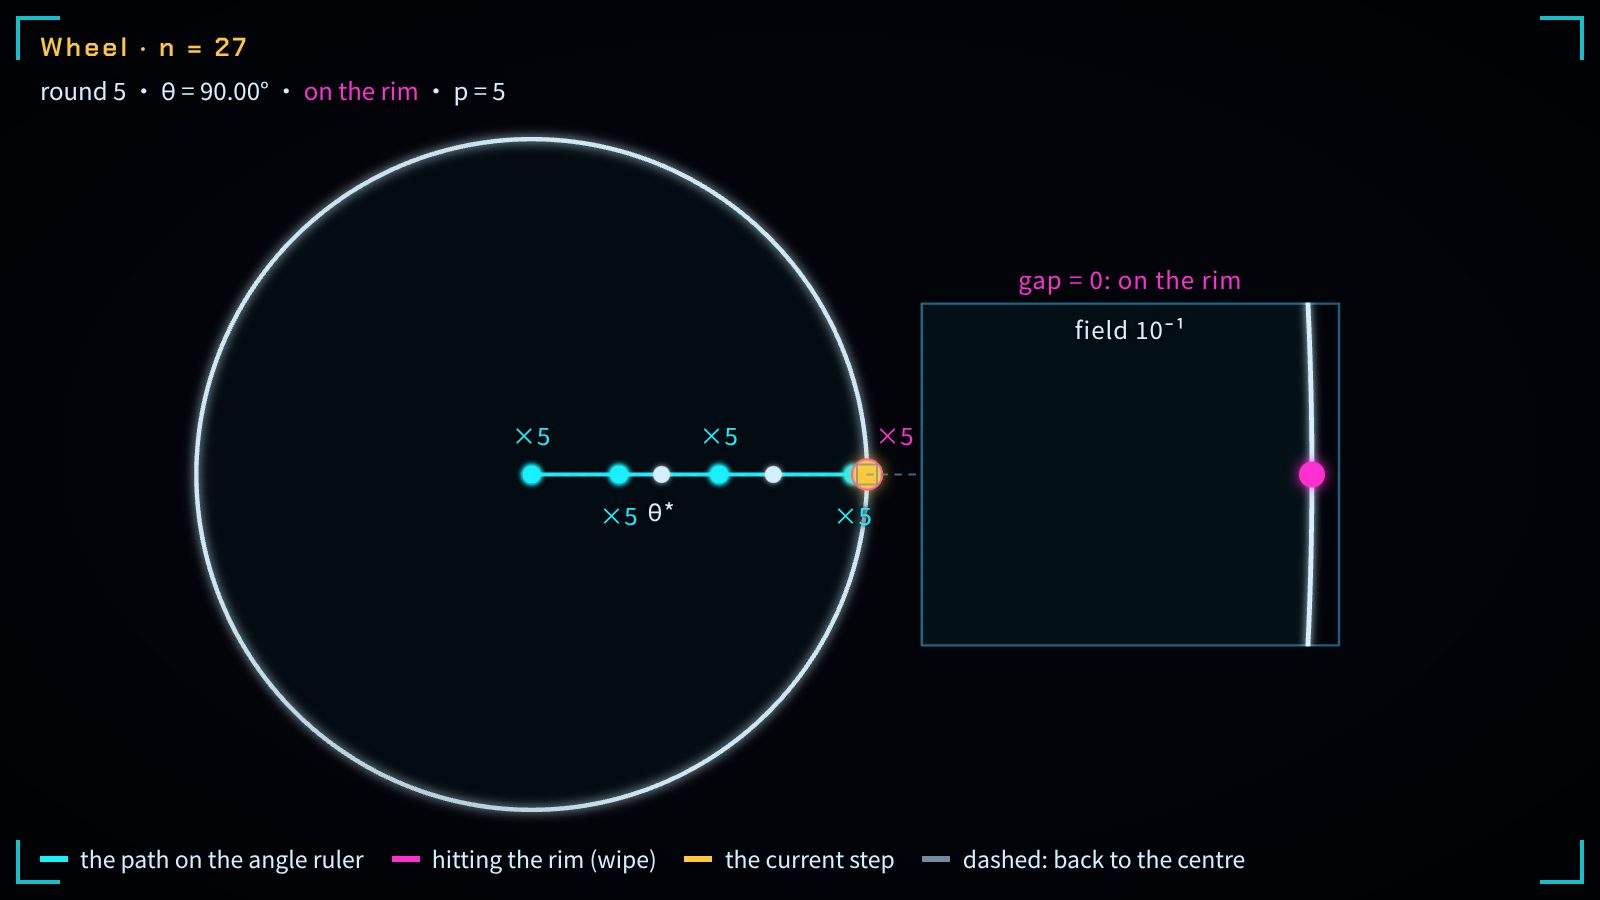
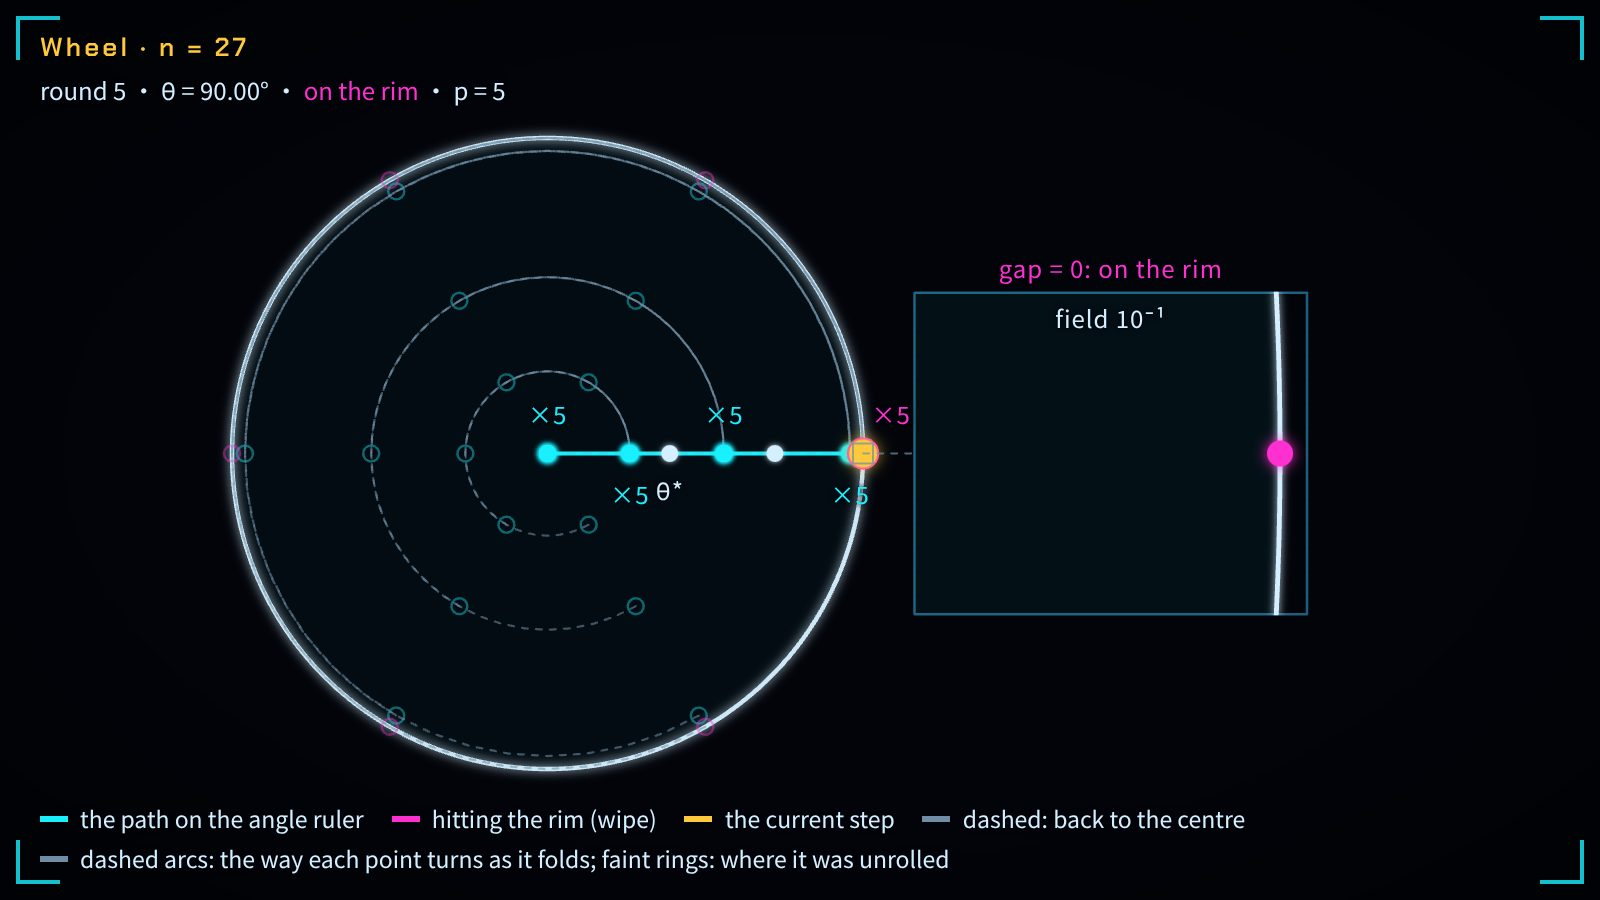
forgetting-rebirth-attractor: merge horizon_gap into staircase; draw the fold as a motion with a fold slider

diff --git a/books/quantum-geometry/viz/forgetting-rebirth-attractor/main.js b/books/quantum-geometry/viz/forgetting-rebirth-attractor/main.js
@@ -236,6 +236,20 @@
     const nNow = S.n, nInt = Math.min(Math.floor(nNow + 1e-9), W.N - 1);
     // spokes of the wheel
     for (let j = 0; j <= ROUNDS; j++) { const a = spokeAngle(j); g.line([[0, 0], [Math.cos(a), Math.sin(a)]], P.dim, { width: TH, alpha: j === 0 ? 0.55 : 0.35, dash: j === 0 ? [] : [3, 5] }); }
+    // the fold as a motion: each visited state of a later round turns along its own circle toward the first spoke;
+    // the grey arc is the way it has turned, the faint ring where it started (unrolled)
+    const trails = [];
+    if (S.fold > 1e-6) {
+      for (let n = 0; n <= nInt; n++) {
+        const j = W.round[n]; if (j === 0) continue;
+        const r = W.light[n] ? 1 : morphR(kleinOfTheta(W.th[n]).r, S.mu); if (r < 0.02) continue;
+        const a0 = j * (2 * Math.PI / (ROUNDS + 1)), a1 = spokeAngle(j), arc = [];
+        for (let i = 0; i <= 40; i++) { const a = a0 + (a1 - a0) * i / 40; arc.push([r * Math.cos(a), r * Math.sin(a)]); }
+        g.line(arc, P.dim, { width: 1.1 * TH, alpha: 0.55, dash: [3, 4] });
+        g.dot(r * Math.cos(a0), r * Math.sin(a0), W.light[n] ? P.magenta : P.cyan, 4 * TH, { ring: true, width: 1.2 * TH, alpha: 0.4 });
+        trails.push({ n, r, from: a0, to: a1 });
+      }
+    }
     // the path walked so far
     for (let n = 0; n < nInt; n++) {
       const a = statePoint(n), b = statePoint(n + 1);
@@ -279,7 +293,7 @@
         }
       }
     }
-    return { pos, gapNow, mag, mult: [...mult.entries()] };
+    return { pos, gapNow, mag, mult: [...mult.entries()], trails };
   }
 
   /* ---------- scene: the fractional map ---------- */
@@ -456,7 +470,8 @@
     $('roNote').textContent = note; $('roAside').textContent = aside;
     $('pillScene').querySelector('strong').textContent = { stair: L('阶梯', 'STAIRCASE'), samsara: L('轮回', 'WHEEL'), cayley: L('分式', 'FRACTIONAL') }[sc];
     $('pillKeyName').textContent = pill[0]; $('pillKey').querySelector('strong').textContent = pill[1];
-    $('legend').innerHTML = LEGEND[sc].map(([cl, zh, en]) => `<span><i class="sw ${cl}"></i>${L(zh, en)}</span>`).join('');
+    const legend = sc === 'samsara' && S.fold > 1e-6 ? LEGEND.samsara.concat([['dm', '虚线弧：折叠时转过的路；淡圈：展开时的位置', 'dashed arcs: the way each point turns as it folds; faint rings: where it was unrolled']]) : LEGEND[sc];
+    $('legend').innerHTML = legend.map(([cl, zh, en]) => `<span><i class="sw ${cl}"></i>${L(zh, en)}</span>`).join('');
   }
 
   const paint = kit.painter(() => { drawText(); drawStage(); drawPlot(); }, [$('stage'), $('plot')]);
@@ -497,16 +512,18 @@
     morphTween = kit.tween(1600, (e) => { S.mu = from + (to - from) * e; paint(); }, () => { morphTween = null; S.mu = to; paint(); if (done) done(); });
   }
   function setFold(f, animate, done) {
-    foldChips.set(String(f), true);
+    foldChips.set(f === 0 || f === 1 ? String(f) : null, true);
     const from = S.fold;
     if (foldTween) foldTween.cancel();
-    if (!animate) { S.fold = f; foldTween = null; paint(); if (done) done(); return; }
-    foldTween = kit.tween(1600, (e) => { S.fold = from + (f - from) * e; paint(); }, () => { foldTween = null; S.fold = f; paint(); if (done) done(); });
+    const show = (v) => { S.fold = v; fFold.set(Math.round(v * 100) / 100); paint(); };
+    if (!animate) { show(f); foldTween = null; if (done) done(); return; }
+    foldTween = kit.tween(1600, (e) => show(from + (f - from) * e), () => { foldTween = null; show(f); if (done) done(); });
   }
   const leave = () => cards.mark(null);
   const sceneChips = kit.chips($('sceneChips'), 'scene', (v) => { leave(); stopTween(); setScene(v); });
   const modelChips = kit.chips($('modelChips'), 'model', (v) => { leave(); setModel(v, true); });
   const foldChips = kit.chips($('foldChips'), 'fold', (v) => { leave(); setFold(Number(v), true); });
+  const fFold = kit.field($('fold'), { fmt: (v) => fix(v, 2), onInput: (v) => { leave(); if (foldTween) { foldTween.cancel(); foldTween = null; } setFold(v, false); } });
   const fD = kit.field($('dEta'), { fmt: (v) => fix(v, 2), onInput: (v) => { leave(); S.dEta = v; refreshWalk(); const cf = SCENES[S.scene]; clock.setMax(cf.max(), true); clock.set(cf.get()); paint(); } });
   $('rew').addEventListener('click', () => { clock.pause(); clock.set(0); });
   kit.keys({
@@ -519,18 +536,16 @@
      instead of the rail (morph: Klein → Poincaré; fold: unrolled → folded). */
   const PRESETS = {
     staircase: { scene: 'stair', model: 'klein', dEta: 1, from: 0, to: 8 },
-    horizon_gap: { scene: 'stair', model: 'klein', dEta: 1.5, from: 4, to: 10 },
     klein_vs_poincare: { scene: 'stair', model: 'poincare', dEta: 1, at: 3, morph: true },
     erase_reset: { scene: 'samsara', model: 'poincare', dEta: 1, fold: 0, from: 0, to: 'round2' },
     quotient_fold: { scene: 'samsara', model: 'poincare', dEta: 1, at: 'end', fold: 1, foldAnim: true },
     cayley: { scene: 'cayley', from: 0, to: 6 }
   };
   const NOTES = {
-    staircase: ['从自指平衡角 θ* 出发（η₀ ≈ 0.817），快度每步加 Δη = 1。青色的点沿射线一级级走向白色的圆周，过每一级的青色直弦都比上一条更挤向边界；走到第 8 级，sin θ = 0.99999996，右边放大镜里品红的缝仍然张开。', 'Starting from the self-referential balance angle θ* (η₀ ≈ 0.817), each step adds Δη = 1 of rapidity. The cyan points walk out along the ray toward the white rim, and each cyan chord through a step crowds closer to the rim than the one before; at step 8, sin θ = 0.99999996, and the magenta gap in the magnifier on the right is still open.'],
-    horizon_gap: ['步长加到 Δη = 1.5，从第 4 级走到第 10 级：琥珀色的点在主图上已经贴住圆周，放大镜却一次次把视野缩小十倍，品红的缝始终撑满视野的一截；到第 10 级，缝只剩约 3.6 × 10⁻¹⁴，仍然不是 0。', 'With the step raised to Δη = 1.5, walk from step 4 to step 10: on the main disk the amber point already hugs the rim, yet the magnifier keeps narrowing its field tenfold and the magenta gap always fills part of it; at step 10 the gap is about 3.6 × 10⁻¹⁴, and still not 0.'],
+    staircase: ['从自指平衡角 θ* 出发（η₀ ≈ 0.817），快度每步加 Δη = 1。青色的点沿射线一级级走向白色的圆周，过每一级的青色直弦都比上一条更挤向边界；走到第 8 级，sin θ = 0.99999996，右边放大镜里品红的缝仍然张开。把步长调大、级数走多，放大镜每一步把视野缩小十倍以上，缝也从不为 0。', 'Starting from the self-referential balance angle θ* (η₀ ≈ 0.817), each step adds Δη = 1 of rapidity. The cyan points walk out along the ray toward the white rim, and each cyan chord through a step crowds closer to the rim than the one before; at step 8, sin θ = 0.99999996, and the magenta gap in the magnifier on the right is still open. Raise the step and walk further, and the magnifier narrows its field tenfold or more at every step; the gap is never 0.'],
     klein_vs_poincare: ['停在第 3 级，把 Beltrami–Klein 圆盘换成庞加莱圆盘：每个点沿射线从 r = tanh η 挪到 ρ = tanh(η/2)，青色的直弦（灰色虚线是它们原来的位置）弯成与白色圆周正交的圆弧。读数里两种算法的固有时率 √(1 − r²) 与 (1 − ρ²)/(1 + ρ²) 一样，都是 sech η。', 'Stop at step 3 and swap the Beltrami–Klein disk for the Poincaré disk: each point moves along the ray from r = tanh η to ρ = tanh(η/2), and the cyan chords (the grey dashed lines are where they were) bend into arcs that meet the white rim at right angles. In the readouts the two proper-time rates √(1 − r²) and (1 − ρ²)/(1 + ρ²) agree: both are sech η.'],
     erase_reset: ['换成外部角度尺：每步把 θ 加上同样的 Δθ（与阶梯的第一步相同）。第二步就越过 90°，点落在圆周上（品红圈），轴向记忆 ½c² 归零；接着沿虚线回到圆心，换一根辐条从 0 开始重新走，又在第 4 步后撞上圆周。', 'Switch to the outside angle ruler: each step adds the same Δθ to θ (the staircase\'s own first step). The second step already passes 90°, the point lands on the rim (magenta ring) and the axial memory ½c² is zero; then it falls back to the centre along the dashed line and starts again from 0 on a new spoke, hitting the rim again after 4 steps.'],
-    quotient_fold: ['走完五圈后，把轮子按周期折叠：五根辐条转到同一个方向，第一次擦表之后的 25 步只落在 5 个位置上，每处叠着 5 次，品红圈全叠在圆周上的同一点；只剩最初从 θ* 出发的那一圈（白点）不在这 5 个位置里。', 'After five rounds, fold the wheel by its period: the five spokes turn to one direction, and the 25 steps after the first wipe land on only 5 positions, 5 times each, the magenta rings all on one point of the rim; only the first walk from θ* (white dots) lies outside these 5 positions.'],
+    quotient_fold: ['走完五圈后，把轮子按周期折叠：五根辐条转到同一个方向，每个点沿自己那一圈的灰色虚线弧转过去（淡色空心圈是它原来的位置），第一次擦表之后的 25 步只落在 5 个位置上，每处叠着 5 次，品红圈全叠在圆周上的同一点；只剩最初从 θ* 出发的那一圈（白点）不在这 5 个位置里。', 'After five rounds, fold the wheel by its period: the five spokes turn to one direction, each point turning along its own grey dashed arc (the faint hollow ring is where it was), and the 25 steps after the first wipe land on only 5 positions, 5 times each, the magenta rings all on one point of the rim; only the first walk from θ* (white dots) lies outside these 5 positions.'],
     cayley: ['分式变换 w = (s − 1)/s 把竖直线 Re s = c 变成圆：c 从 2.5 一步步减到接近 1/2，青色的像圆一个套一个，都在 w = 1 处与白色单位圆相切，并越来越贴近它；左边放大镜里，像圆与单位圆之间品红的缝在缩小，但对每个 c > 1/2 都还在。', 'The fractional map w = (s − 1)/s turns the vertical lines Re s = c into circles: as c steps down from 2.5 toward 1/2, the cyan image circles nest inside one another, all touching the white unit circle at w = 1 and hugging it ever closer; in the magnifier the magenta gap between the image circle and the unit circle shrinks, but is still there for every c > 1/2.']
   };
   let booting = true;
@@ -581,7 +596,7 @@
         steps, cur, curGap: morphGap(cur.rBK, cur.gapBK, S.mu),
         wall: wall(cur.rBK, S.mu, 48), curPoint: [morphR(cur.rBK, S.mu), 0],
         walk: { th: W.th.slice(), light: W.light.slice(), round: W.round.slice(), n0: W.n0, p: W.p, N: W.N, constant: W.constant, dth: gd(ETA0 + S.dEta) - THETA_STAR,
-          points: W.th.map((_, i) => statePoint(i)), mult: last.mult || null },
+          points: W.th.map((_, i) => statePoint(i)), mult: last.mult || null, trails: last.trails || null },
         cayley: { c, centre: circleOfLine(c).centre, radius: circleOfLine(c).radius, samples: last.samples || null },
         magU: last.mag ? last.mag.U : null, magGap: last.gapNow,
         hud: $('hudBig').textContent, key: $('ro').querySelector('.key dd').textContent

diff --git a/books/quantum-geometry/viz/forgetting-rebirth-attractor/index.html b/books/quantum-geometry/viz/forgetting-rebirth-attractor/index.html
@@ -37,7 +37,6 @@
       <h2><span class="zh">实验卡带</span><span class="en">Experiments</span><span class="aside">PRESETS</span></h2>
       <div class="presets cards" id="presets">
         <button class="preset" data-preset="staircase" aria-pressed="false"><span class="code">STAIRCASE</span><span class="cn zh">快度等步：一格格逼近边界</span><span class="cn en">Equal rapidity steps creep toward the rim</span></button>
-        <button class="preset" data-preset="horizon_gap" aria-pressed="false"><span class="code">HORIZON GAP</span><span class="cn zh">放大镜一直放大，缝一直在</span><span class="cn en">The magnifier keeps zooming; the gap stays open</span></button>
         <button class="preset" data-preset="klein_vs_poincare" aria-pressed="false"><span class="code">KLEIN → POINCARÉ</span><span class="cn zh">直弦弯成正交圆弧，固有时率不变</span><span class="cn en">Straight chords bend into orthogonal arcs; dτ/dt stays</span></button>
         <button class="preset" data-preset="erase_reset" aria-pressed="false"><span class="code">ANGLE RULER</span><span class="cn zh">角度等步：撞上边界，擦表回到圆心</span><span class="cn en">Equal angle steps hit the rim and fall back to the centre</span></button>
         <button class="preset" data-preset="quotient_fold" aria-pressed="false"><span class="code">FOLD THE WHEEL</span><span class="cn zh">按周期折叠：一圈圈只剩几个点</span><span class="cn en">Fold by the period: the rounds leave a few points</span></button>
@@ -64,6 +63,10 @@
       <div class="chips" id="foldChips" role="group" aria-label="展开或折叠" data-aria-en="Unrolled or folded">
         <button class="chip" data-fold="0" aria-pressed="true"><span class="zh">展开：一圈一根辐条</span><span class="en">Unrolled: one spoke per round</span></button>
         <button class="chip" data-fold="1" aria-pressed="false"><span class="zh">按周期折叠</span><span class="en">Folded by the period</span></button>
+      </div>
+      <div class="field">
+        <label for="fold"><span class="zh">折叠程度 f</span><span class="en">How far folded, f</span><small class="zh">每个点沿自己的圆转向第一根辐条，转过原角度的 f 倍</small><small class="en">each point turns along its own circle toward the first spoke, through f of its angle</small></label><output id="oFold" for="fold">0.00</output>
+        <input type="range" id="fold" min="0" max="1" step="0.01" value="0">
       </div>
     </section>
   </aside>
